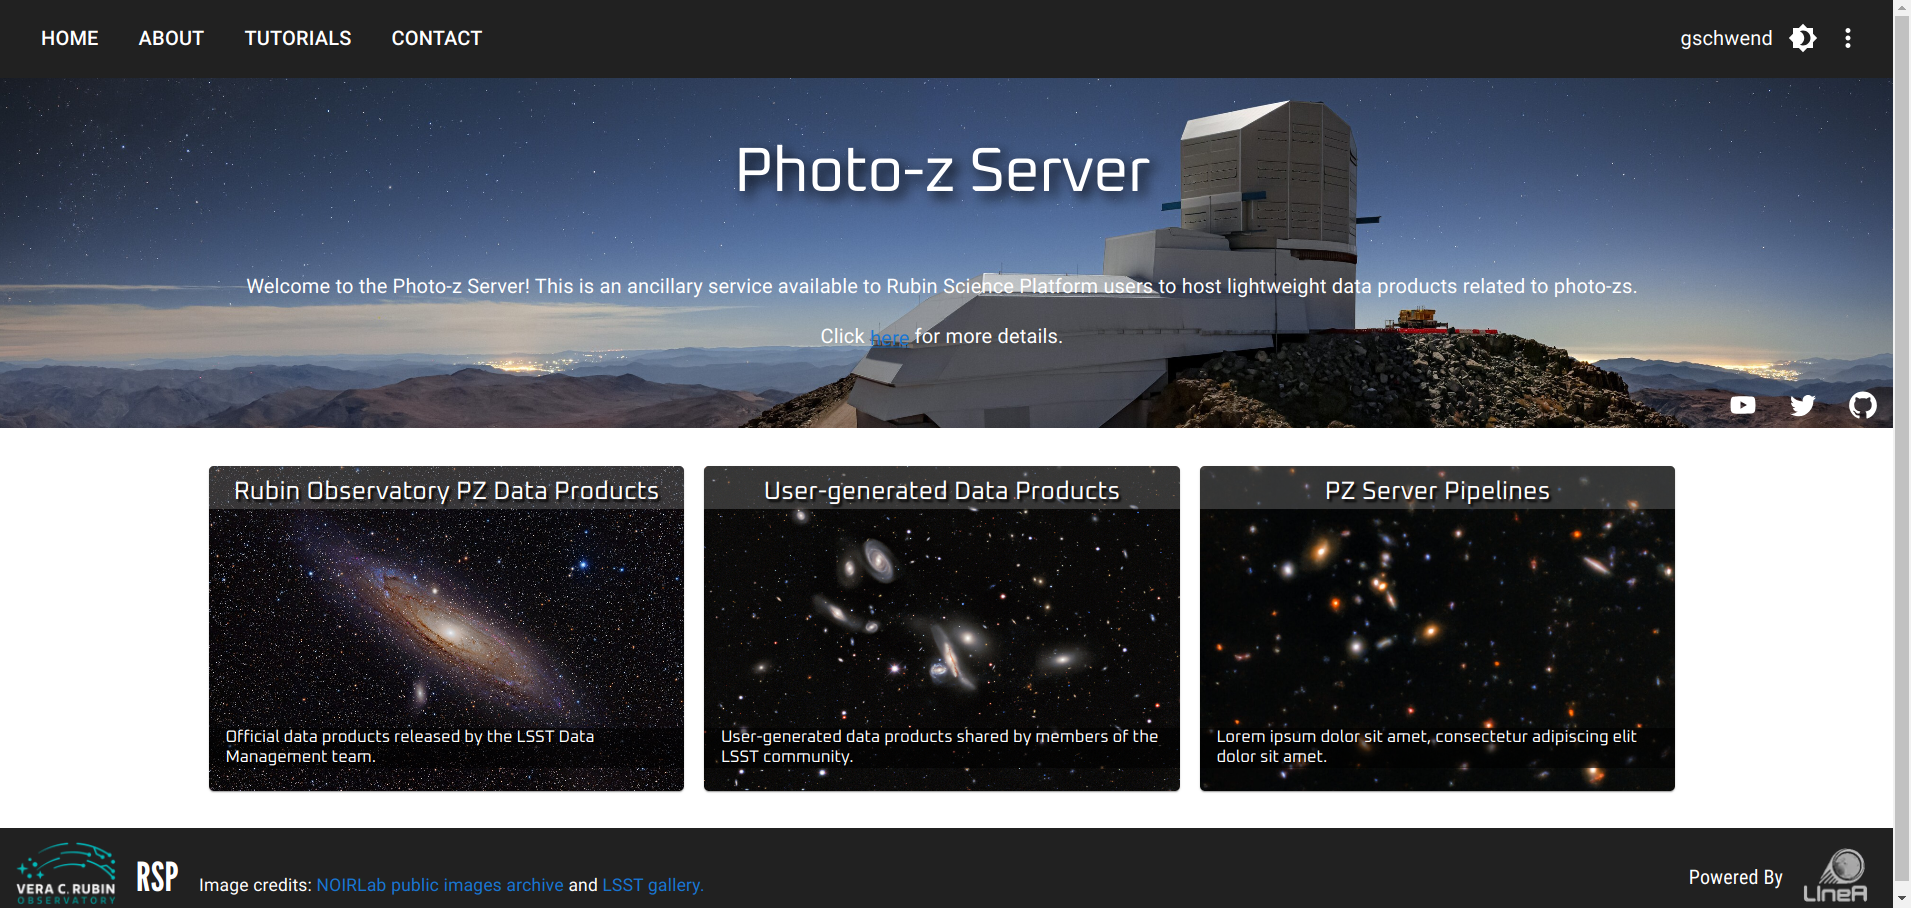
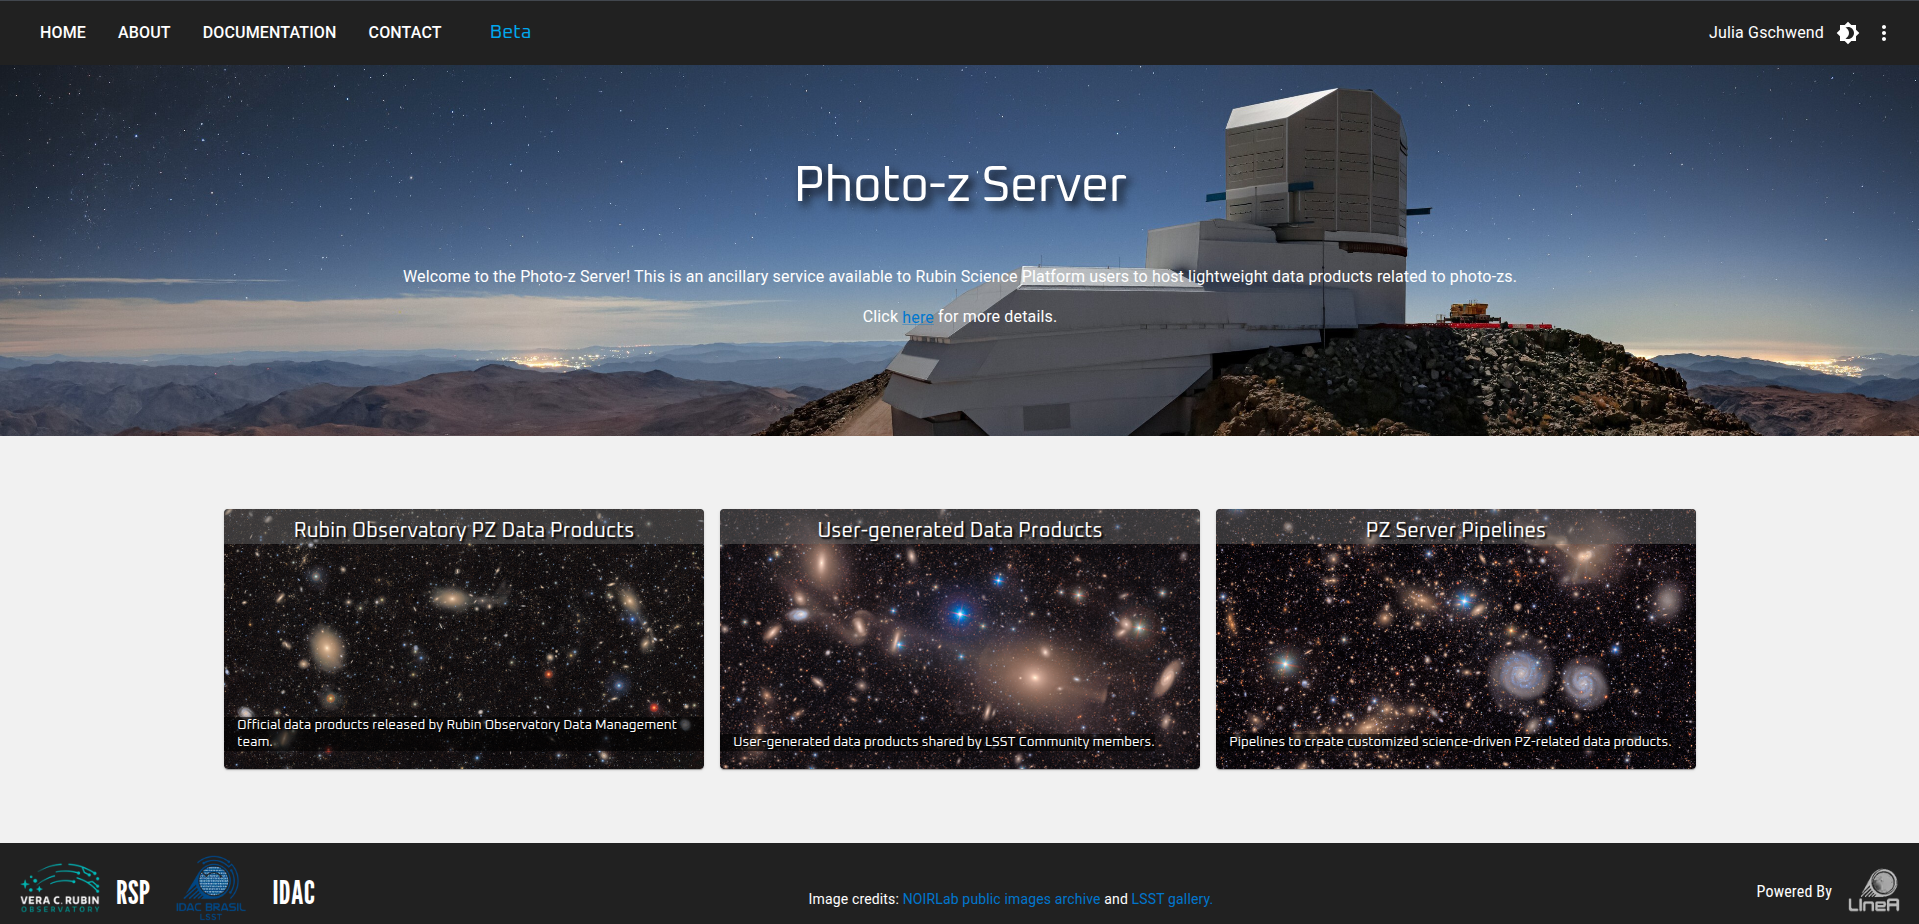
update text and links

diff --git a/pz-docs/docs/s4_1.md b/pz-docs/docs/s4_1.md
@@ -6,7 +6,7 @@ The Training Set Maker (TSM) is a cross-matching service tailored to create trai
 
 TSM was inspired by its namesake Training Set Maker pipeline, a Postgres-based service available on the DES Science Portal ([Gschwend et al., 2018](https://www.sciencedirect.com/science/article/abs/pii/S2213133718300891?via%3Dihub){:target="_blank"}), but to scale for LSST datasets. It will rely on an entirely different infrastructure: the [LSDB](https://github.com/astronomy-commons/lsdb){:target="_blank"} software, currently under development by the [LINCC](https://www.lsstcorporation.org/lincc/frameworks){:target="_blank"} team.
 
-The service will be delivered as a Python library with useful functions to: 
+The service is delivered as a Python library with useful functions to: 
     
 1. Access, manipulate, and visualize lightweight catalogs of reference redshifts (spec-z, simulated true-z, etc) locally in the user's environment (e.g., RSP notebook aspect, users' laptop, etc.). TSM will take advantage of the PZ Server's API [`pzserver`](https://github.com/linea-it/pzserver) (see API's documentation [here](https://linea-it.github.io/pzserver/)) to access user-generated catalogs hosted by the server.
      
@@ -14,19 +14,19 @@ The service will be delivered as a Python library with useful functions to:
 
 In both cases, RSP credentials are required for authentication and authorization purposes. 
  
-TSM is not considered an efficient tool for manipulating big data in the user's work environment. Nonetheless, it will take advantage of the administrative functions of the PZ Server to retrieve data and metadata and use the Brazilian IDAC's infrastructure to deal with large datasets. 
+TSM is not a tool for manipulating big data in the user's work environment. Nonetheless, it will take advantage of the administrative functions of the PZ Server to retrieve data and metadata and use the Brazilian IDAC's infrastructure to deal with large datasets remotely. 
 
 #### Overview of planned remote service 
 
 ![Training Set creation cycle](tsm_idac.png)
-* The technology used to perform the cross-matching will be determined in agreement with the collaboration, following along the results of [LINCC Frameworks](https://www.lsstcorporation.org/lincc/frameworks) task force on this subject. Current efforts point to the adoption of catalog files using a partitioning schema based on [HIPSCat](https://github.com/astronomy-commons/hipscat) and the matching done in massive parallel processes orchestrated by [LSDB](https://github.com/astronomy-commons/lsdb), both under development. 
+* The technology used to perform the cross-matching will be determined in agreement with the collaboration, following along the results of [LINCC Frameworks](https://www.lsstcorporation.org/lincc/frameworks) task force on this subject. Current efforts point to the adoption of catalog files using a partitioning schema based on [HATS](https://github.com/astronomy-commons/hats) and the matching done in massive parallel processes orchestrated by [LSDB](https://github.com/astronomy-commons/lsdb), both under development. 
      
 
 #### Forecasted use cases
 
 1. The user retrieves specific reference redshift catalogs from the PZ Server or other online services such as [Astroquery](https://astroquery.readthedocs.io/en/latest/) ([Ginsburg, Sipőcz, Brasseur, et al. 2019](https://ui.adsabs.harvard.edu/abs/2019AJ....157...98G/abstract)). The PZ Server will provide a list of previous public spec-z catalogs of interest (previously informed by the community), for which metadata and quality flags conversion will already be available. 
 
-2. The user combines different redshifts catalogs into a single table. TSM will provide a mechanism to perform spatial cross-matching among multiple tables to resolve multiple redshift measurements for the same galaxies (flexible criteria) and standardize quality flags from different surveys to create redshift compilations with data from different sources. 
+2. The user combines different redshifts catalogs into a single table. TSM will provide a mechanism to perform spatial cross-matching among multiple tables to resolve multiple redshift measurements for the same galaxies (flexible criteria) and standardize quality flags from different surveys to create redshift compilations with data from different sources. _Update in 2026: This functionality evolved to a separate pipeline called Combine Redshift Catalogs (CRC) also available in the PZ Server site and API._ 
 
 3. The user retrieves redshift compilations from the PZ Server. The PZ Server will host a standardized compilation of redshifts with public data available up to date on each LSST Data Release, vetted by LSST DM staff. These compilations must be easy to find (e.g., flagged as "latest") and contain detailed documentation to cite the original sources properly. 
 

diff --git a/pz-docs/docs/index.md b/pz-docs/docs/index.md
@@ -4,7 +4,7 @@ In-kind contribution program BRA-LIN-S4 - Photometric Redshifts.
 
 #### Introduction
 
-This page describes the in-kind contributions offered by the Laboratório Interinstitucional de e-Astronomia ([LIneA](http://www.linea.org.br){:target="_blank"}) to [Vera C. Rubin Observatory](https://rubinobservatory.org/){:target="_blank"}, approved as part of the in-kind contribution program BRA-LIN. This is a live document that started with the description of planned work. It is regularly updated to offer a high-level description of the software produced as the program evolves. Technical documentation of each piece of software should be delivered together with the code in the respective repositories. For comments or suggestions, please open an issue [here](https://github.com/linea-it/pz-lsst-inkind-doc/issues){:target="_blank"}. 
+This page describes the in-kind contributions offered by the Laboratório Interinstitucional de e-Astronomia ([LIneA](http://www.linea.org.br){:target="_blank"}) to the [Vera C. Rubin Observatory](https://rubinobservatory.org/){:target="_blank"}, approved as part of the in-kind contribution program BRA-LIN. This is a live document that started with the description of planned work. It is regularly updated to offer a high-level description of the software produced as the program evolves. Technical documentation of each piece of software should be delivered together with the code in the respective repositories. For comments or suggestions, please open an issue [here](https://github.com/linea-it/pz-lsst-inkind-doc/issues){:target="_blank"}. 
 
 *** 
 
@@ -16,34 +16,30 @@ Section 4 of the BRA-LIN proposal refers to the contributions related to Photome
 * S4.4 - [PZ Tables as Federated Datasets](s4_4.md) 
 
 
-#### Related documents
+#### Related documents and links
 
 * [BRA-LIN in-kind contribution proposal](https://docs.google.com/document/d/1JWUG2vxxPD1DwrbQsZwI1q_2lk2TIGnHGHNbaq2zAbk/preview){:target="_blank"}
 
 * [BRA-LIN S4 work plan approved by Rubin staff](https://drive.google.com/file/d/1SmMggDtbVOVogOboq6X-smjv6wbXus-3/preview){:target="_blank"}
 
-* [BRA-LIN S4 annual evaluation report FY2023](https://drive.google.com/file/d/109e2cG9QnI-xaRFkzLAc6v9wdfwCkFjN/preview){:target="_blank"}
+* [Project Management on GitHub](https://github.com/orgs/linea-it/projects/39/views/2?sliceBy%5Bvalue%5D=%F0%9F%8F%AA+PZ+Server)
 
-* BRA-LIN S4 annual evaluation report FY2024 (soon)
+* [Documentation for users](https://docs.linea.org.br/en/sci-platforms/pz_server.html)
 
+* [Datasets information page](https://data.linea.org.br/en/sci_products/pzserver.html)
 
-#### Project Management on GitHub
+* [LIneA website](http://www.linea.org.br){:target="_blank"}
 
-* [S4.1 and S4.2 - Training Set Maker and PZ](https://github.com/orgs/linea-it/projects/2/views/1){:target="_blank"}
-
-* S4.3 - PZ Validation Cooperative (start in 2026 with DP2) 
-
-* [S4.4 - PZ Compute](https://github.com/orgs/linea-it/projects/10/views/1){:target="_blank"}
+* [Rubin Observatory website](https://rubinobservatory.org/){:target="_blank"}
 
 
-
-#### Timeline 
+<!-- #### Timeline 
 
 
 
 ![BRA-LIN Timeline](BRA-LIN-S4_Timeline_v_Apr25.png)
 
-BRA-LIN S4 Timeline revised on April 2025. 
+BRA-LIN S4 Timeline revised on April 2025.  -->
 
 
 #### LIneA Key Personnel
@@ -63,4 +59,4 @@ BRA-LIN S4 Timeline revised on April 2025.
 
 
 
-Last updated: June 26, 2025
+Revised: February 6, 2026

diff --git a/pz-docs/docs/s4_2.md b/pz-docs/docs/s4_2.md
@@ -15,7 +15,6 @@ Nonetheless, the PZ Server will continue serving the LSST Community in subsequen
 
 The PZ Server will be accessible via the website ([pzserver.linea.org.br](https://pzserver.linea.org.br){:target="_blank"}), where the users can upload user-generated data products and browse to find and download data products from a list. The official data products are listed on a separate page (the card on the left side of the landing page). 
 
-During the development phase, a test environment is available at [pz-server-dev.linea.org.br](https://pz-server.linea.org.br){:target="_blank"}, open to LSST members with a valid RSP account. Feedback from future PZ Server users is more than welcome.
 
 
 ##### Landing Page
@@ -31,6 +30,8 @@ Display description file     |   Display table preview
 ![](pz-server-description-file.png) | ![](pz-server-table-preview.png)
 
 
+
+A dedicated page with documentation for users is available at [LIneA DOCs website](https://docs.linea.org.br/en/sci-platforms/pz_server.html){:target="_blank"}. It contains instructions on how to use the website and the API, as well as a tutorial to get started.
 
 <!--
 !!! Note
